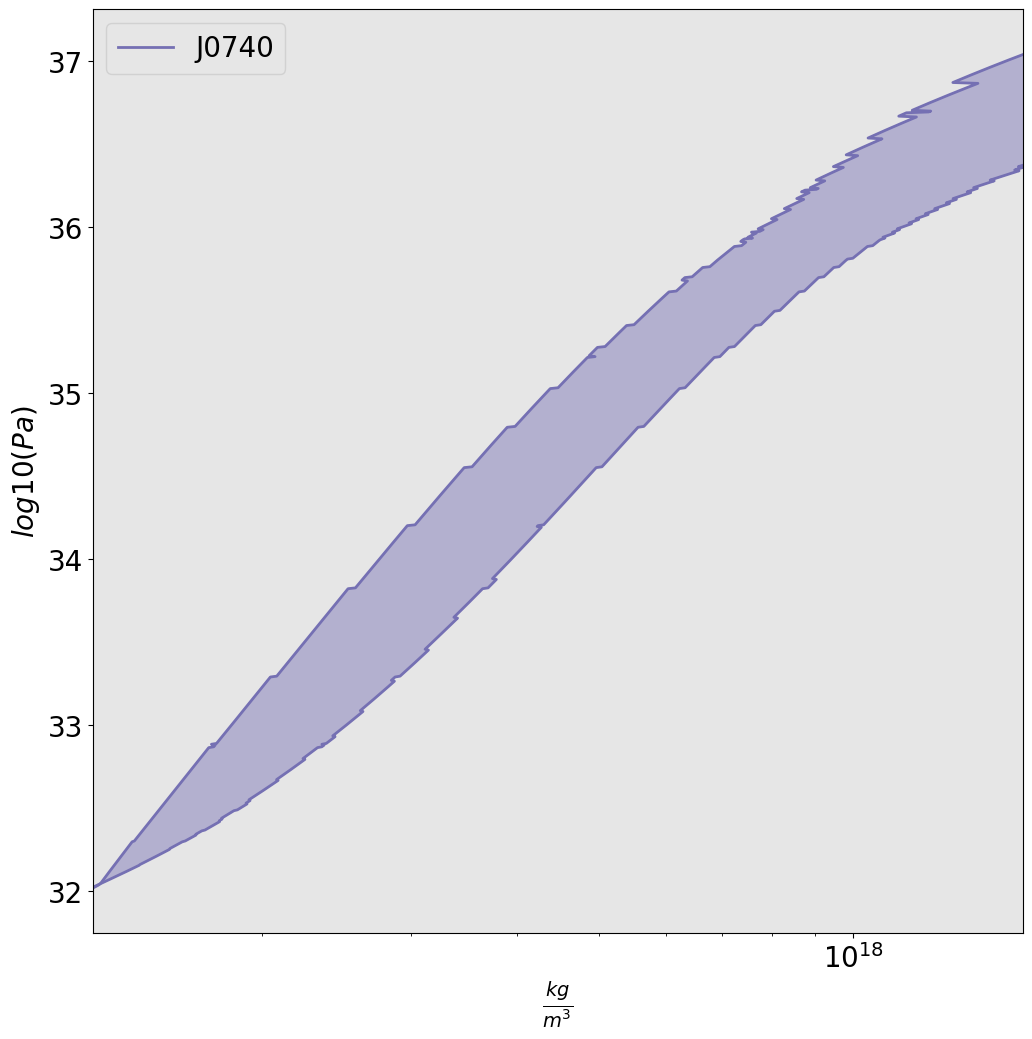
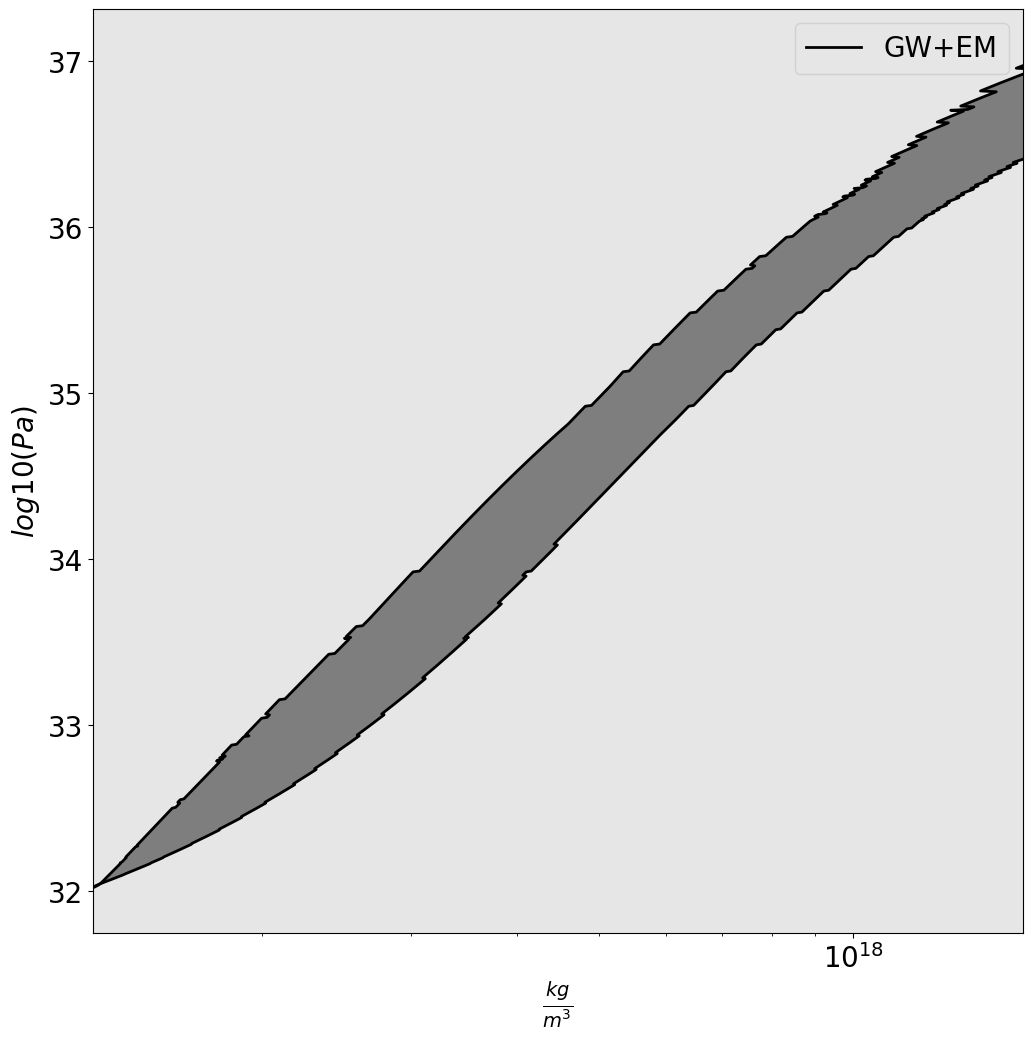
Plots of plots resembling Anarya's. 28th attempt.

Changed region(s): [[0.093, 0.0308, 0.9922, 0.8624], [0.186, 0.0308, 0.2791, 0.0616]]

diff --git a/joint_inference/development/confidence_interval.py b/joint_inference/development/confidence_interval.py
@@ -14,13 +14,13 @@ def plot_intervals(outputfile):
 #    labels = ["J0740"]
 #    colors = ["#7570b3"]
 
-#    Files = ["run_data/8th_cutoff_plotting/spectral_p_vs_rho_cutoff_W100_S10000_GW170817_J0740_hierarchical_confidence.txt"]
-#    labels = ["GW+EM"]
-#    colors = ["#1b9e77"]
+    Files = ["run_data/8th_cutoff_plotting/spectral_p_vs_rho_cutoff_W100_S10000_GW170817_J0740_hierarchical_confidence.txt"]
+    labels = ["GW+EM"]
+    colors = ["#000000"]
 
-    Files = ["run_data/8th_cutoff_plotting/spectral_p_vs_rho_cutoff_W100_S10000_GW170817_confidence.txt", "run_data/8th_cutoff_plotting/spectral_p_vs_rho_cutoff_W100_S10000_J0740_confidence.txt", "run_data/8th_cutoff_plotting/spectral_p_vs_rho_cutoff_W100_S10000_GW170817_J0740_hierarchical_confidence.txt"]
-    labels = ["GW170817", "J0740", "GW+EM"]
-    colors = ["#d95f02", "#7570b3", "#000000"]
+#    Files = ["run_data/8th_cutoff_plotting/spectral_p_vs_rho_cutoff_W100_S10000_GW170817_confidence.txt", "run_data/8th_cutoff_plotting/spectral_p_vs_rho_cutoff_W100_S10000_J0740_confidence.txt", "run_data/8th_cutoff_plotting/spectral_p_vs_rho_cutoff_W100_S10000_GW170817_J0740_hierarchical_confidence.txt"]
+#    labels = ["GW170817", "J0740", "GW+EM"]
+#    colors = ["#d95f02", "#7570b3", "#000000"]
 
     pl.clf()
     pl.figure(figsize=(12,12))
